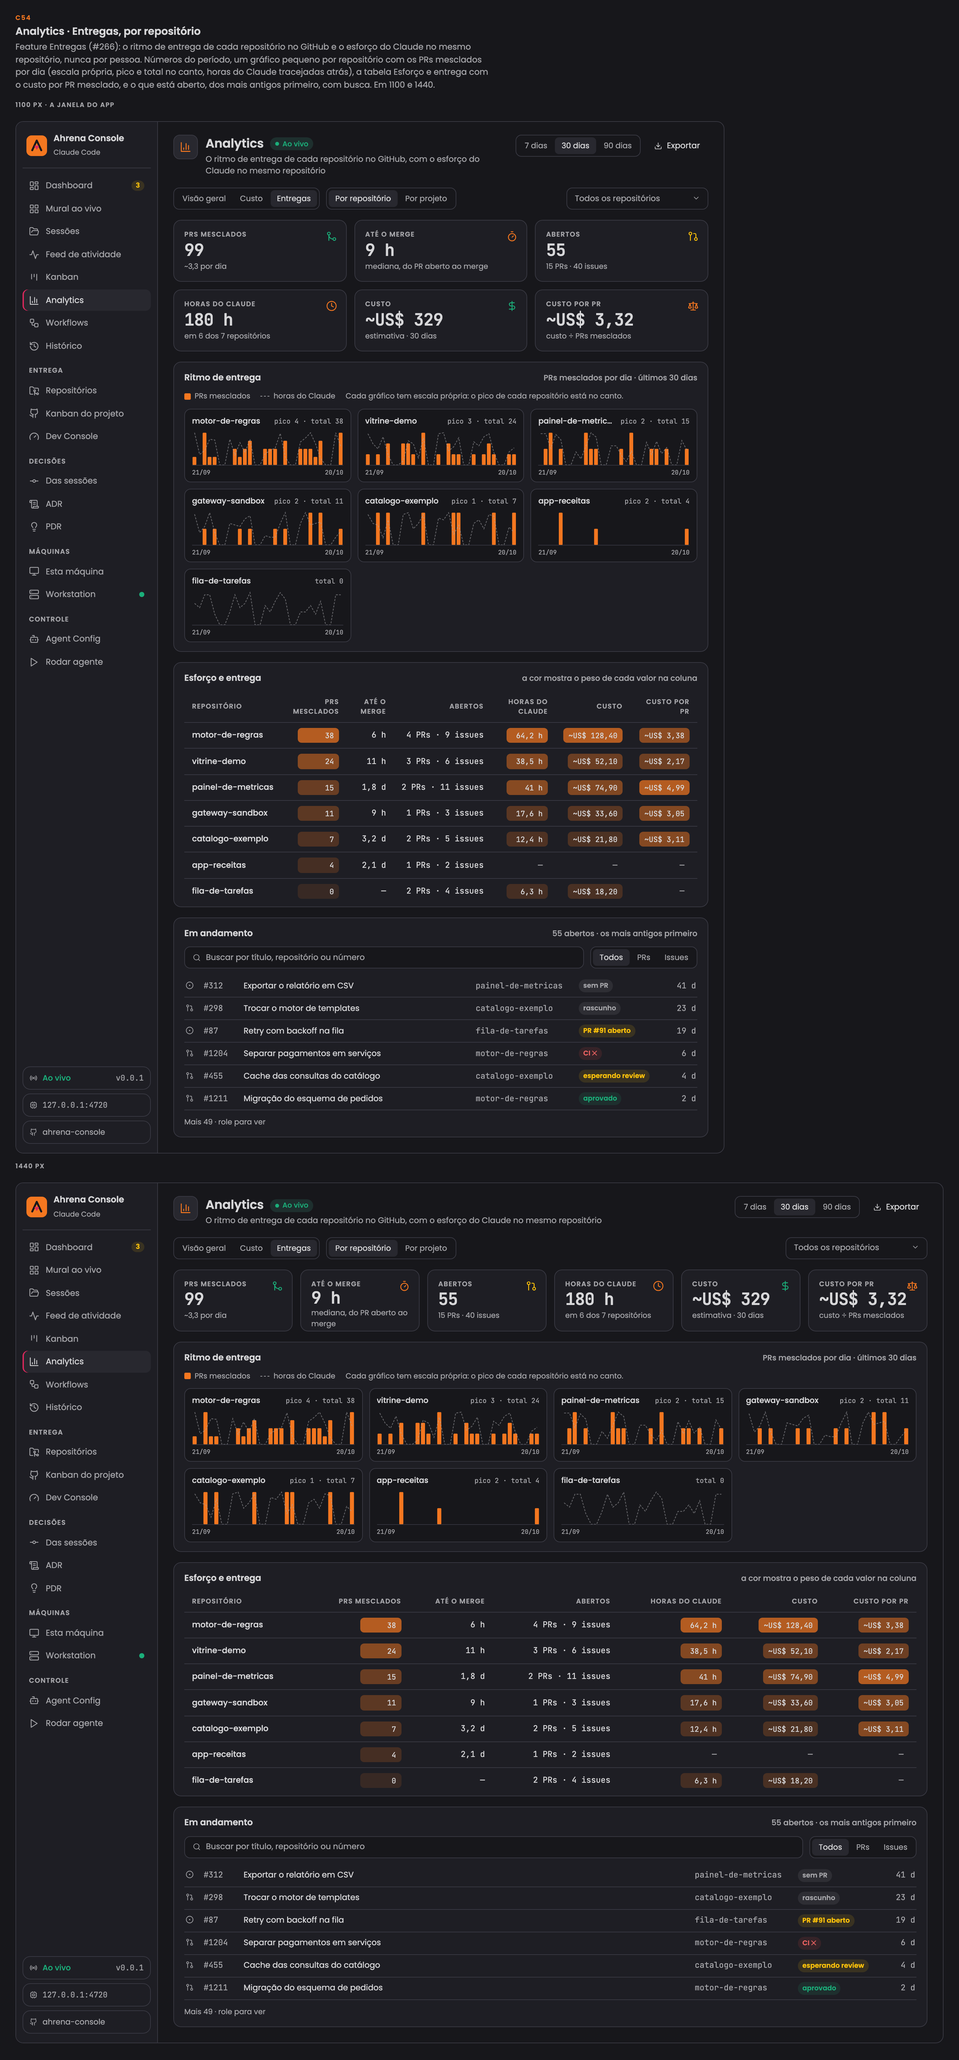
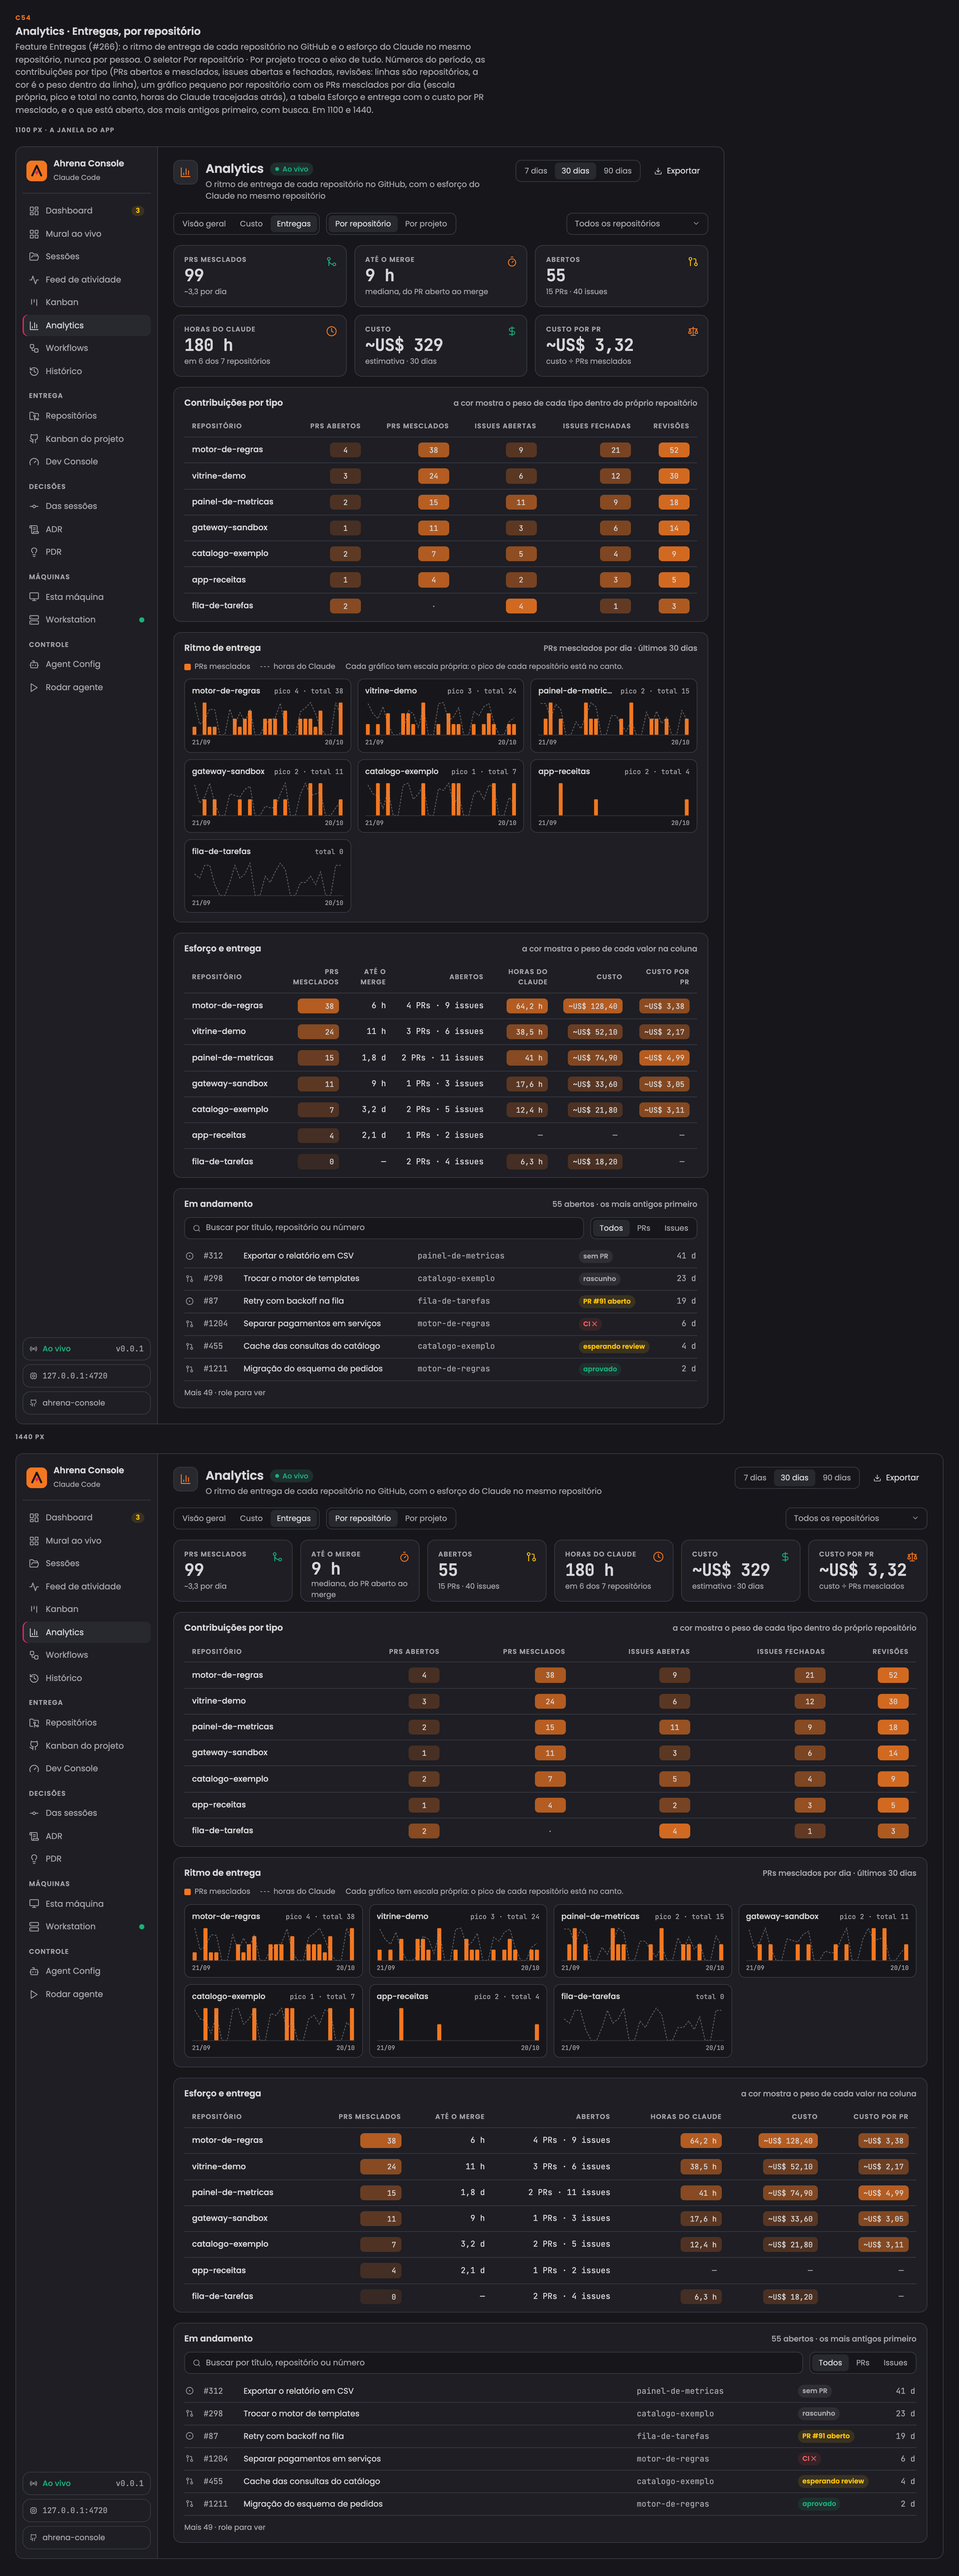
docs(wireframes): contributions heatmap and one axis switch for C54 and C55 (#266)
Rows are repositories or projects, never people; the Por repositório /
Por projeto selector switches the axis of the whole tab.

diff --git a/docs/wireframes/index.html b/docs/wireframes/index.html
@@ -512,9 +512,10 @@ main { min-width: 0; padding-block: 24px 80px; padding-left: max(16px, env(safe-
 .dl-none { color: var(--muted); font-family: var(--font-mono); padding-right: 20px !important; }
 .dl-open-bar { display: flex; gap: 10px; align-items: center; }
 .dl-open { display: flex; flex-direction: column; }
-.dl-open-row { display: grid; grid-template-columns: 18px 52px minmax(0, 1fr) 150px 128px 44px; gap: 10px; align-items: center; padding: 7px 2px; border-bottom: 1px solid var(--border); font-size: 12.5px; }
+.dl-open-row { display: grid; grid-template-columns: 18px 52px minmax(0, 1fr) minmax(0, 240px) 128px 44px; gap: 10px; align-items: center; padding: 7px 2px; border-bottom: 1px solid var(--border); font-size: 12.5px; }
 .dl-open-row .pill { justify-self: start; }
 .dl-age { text-align: right; color: var(--muted); }
+.dl-hm span { min-width: 48px; text-align: center; } .dl-zero { color: var(--muted); }
 .dl-faded > .cartao:nth-child(-n+2) { opacity: .55; }
 /* ---------- modo captura ---------- */
 body.captura .topo, body.captura .indice, body.captura .notas, body.captura .capitulo, body.captura .tela:not(.alvo), body.captura .perguntas, body.captura #perguntas { display: none !important; }
@@ -1129,10 +1130,23 @@ const DL_OPEN = [
   ['pr', 455, 'Cache das consultas do catálogo', 'catalogo-exemplo', 'esperando review', 'b-waiting', '4 d'],
   ['pr', 1211, 'Migração do esquema de pedidos', 'motor-de-regras', 'aprovado', 'b-completed', '2 d'],
 ]
-function dlOpen(w) {
+// Closed issues and reviews per repository, for the contribution heatmap (rows = repositories or projects, never people).
+const DL_EXTRA = { 'motor-de-regras': [21, 52], 'vitrine-demo': [12, 30], 'painel-de-metricas': [9, 18], 'gateway-sandbox': [6, 14], 'catalogo-exemplo': [4, 9], 'app-receitas': [3, 5], 'fila-de-tarefas': [1, 3] }
+const dlProjectOf = repo => DL_PROJECTS.find(p => p[1].includes(repo))[0]
+function dlContrib(byProject) {
+  const repo = n => DL_REPOS.find(r => r[0] === n)
+  const rows = byProject
+    ? DL_PROJECTS.map(([n, repos]) => [n, ...[r => r[5], r => r[3], r => r[6], r => DL_EXTRA[r[0]][0], r => DL_EXTRA[r[0]][1]].map(f => repos.reduce((a, x) => a + f(repo(x)), 0))])
+    : DL_REPOS.map(r => [r[0], r[5], r[3], r[6], DL_EXTRA[r[0]][0], DL_EXTRA[r[0]][1]])
+  const cell = (v, max) => `<td class="dl-heat dl-hm">${v ? `<span style="background:color-mix(in srgb, var(--accent) ${Math.round(14 + v / max * 70)}%, var(--surface))">${v}</span>` : '<span class="dl-zero">·</span>'}</td>`
+  return `<div class="cartao dl-card" style="padding-bottom:4px"><div class="ttl">Contribuições por tipo<span class="r">a cor mostra o peso de cada tipo dentro do próprio ${byProject ? 'projeto' : 'repositório'}</span></div>
+    <table class="tabela dl-table"><thead><tr><th>${byProject ? 'Projeto' : 'Repositório'}</th><th class="n">PRs abertos</th><th class="n">PRs mesclados</th><th class="n">Issues abertas</th><th class="n">Issues fechadas</th><th class="n">Revisões</th></tr></thead><tbody>
+    ${rows.map(([n, ...v]) => { const max = Math.max(...v, 1); return `<tr><td class="nm"><b>${n}</b></td>${v.map(x => cell(x, max)).join('')}</tr>` }).join('')}</tbody></table></div>`
+}
+function dlOpen(w, byProject) {
   return `<div class="cartao dl-card"><div class="ttl">Em andamento<span class="r">55 abertos · os mais antigos primeiro</span></div>
     <div class="dl-open-bar"><span class="campo" style="flex:1">${ic('search')}Buscar por título, repositório ou número</span><div class="seg"><span class="on">Todos</span><span>PRs</span><span>Issues</span></div></div>
-    <div class="dl-open">${DL_OPEN.map(([k, n, t, repo, st, cls, age]) => `<div class="dl-open-row"><span class="c-muted">${ic(k === 'pr' ? 'git-pull-request' : 'circle-dot')}</span><span class="mono c-muted">#${n}</span><span class="trunc">${t}</span><span class="mono c-muted trunc">${repo}</span><span class="pill ${cls}">${st}</span><span class="mono dl-age">${age}</span></div>`).join('')}</div>
+    <div class="dl-open">${DL_OPEN.map(([k, n, t, repo, st, cls, age]) => `<div class="dl-open-row"><span class="c-muted">${ic(k === 'pr' ? 'git-pull-request' : 'circle-dot')}</span><span class="mono c-muted">#${n}</span><span class="trunc">${t}</span><span class="mono c-muted trunc">${byProject ? `${dlProjectOf(repo)} · ${repo}` : repo}</span><span class="pill ${cls}">${st}</span><span class="mono dl-age">${age}</span></div>`).join('')}</div>
     <div class="leg"><span>Mais 49 · role para ver</span></div></div>`
 }
 function telaEntregas(w, byProject = false) {
@@ -1150,12 +1164,13 @@ function telaEntregas(w, byProject = false) {
     ${stat('Custo', '~US$ 329', 'estimativa · 30 dias', 'dollar-sign', 'var(--status-completed-text)')}
     ${stat('Custo por PR', '~US$ 3,32', 'custo ÷ PRs mesclados', 'scale', 'var(--accent-text)')}
   </div>
+  ${dlContrib(byProject)}
   <div class="cartao dl-card"><div class="ttl">Ritmo de entrega<span class="r">PRs mesclados por dia · últimos 30 dias</span></div>
     <div class="leg"><span><i class="dl-key-bar"></i>PRs mesclados</span><span><i class="dl-key-line"></i>horas do Claude</span><span>Cada gráfico tem escala própria: o pico de cada ${byProject ? 'projeto' : 'repositório'} está no canto.</span></div>
     <div class="dl-grid" style="grid-template-columns:repeat(${cols},minmax(0,1fr))">${smalls.join('')}</div></div>
   <div class="cartao dl-card" style="padding-bottom:4px"><div class="ttl">Esforço e entrega<span class="r">${byProject ? 'o esforço do projeto é a soma dos repositórios dele' : 'a cor mostra o peso de cada valor na coluna'}</span></div>
     ${dlTable(byProject ? DL_PROJECTS : DL_REPOS, byProject)}</div>
-  ${dlOpen(w)}`
+  ${dlOpen(w, byProject)}`
 }
 function telaEntregasEstados() {
   return `${cab('bar-chart-3', 'Analytics', 'O ritmo de entrega de cada repositório no GitHub, com o esforço do Claude no mesmo repositório', `<div class="seg"><span>7 dias</span><span class="on">30 dias</span><span>90 dias</span></div>`)}
@@ -2590,9 +2605,9 @@ const TELAS = [
     n: N(['Analytics: 5 StatCards, Event Activity de 52 semanas, Last 30 Days, abas Cost / Token / Productivity, barras horizontais.'], ['O heatmap usa o laranja em 4 tons, sem o índigo do CCAM.', 'Custo virou a aba "Custo" desta tela (3.7); o resto entra a pedido do dono.']) },
   { id: 'console-custo', cod: 'C13', nome: 'Analytics · Custo', sub: 'Custo por dia, por modelo e por projeto (3.7).', html: () => `<div class="fila">${cc('analytics', telaCusto())}</div>`,
     n: N(['Analytics · Cost Analytics: linha diária com pico e total, donut por modelo, barras horizontais.'], ['Gráficos no laranja e nos seus tons, sem uma cor por série.', 'Custo sempre com "~" e "estimativa".']) },
-  { id: 'console-delivery', cod: 'C54', nome: 'Analytics · Entregas, por repositório', sub: 'Feature Entregas (#266): o ritmo de entrega de cada repositório no GitHub e o esforço do Claude no mesmo repositório, nunca por pessoa. Números do período, um gráfico pequeno por repositório com os PRs mesclados por dia (escala própria, pico e total no canto, horas do Claude tracejadas atrás), a tabela Esforço e entrega com o custo por PR mesclado, e o que está aberto, dos mais antigos primeiro, com busca. Em 1100 e 1440.', html: () => `<div style="display:flex;flex-direction:column;gap:12px"><div class="rotulo">1100 px · a janela do app</div>${frameAt(1100, 'analytics', telaEntregas(1100))}<div class="rotulo">1440 px</div>${frameAt(1440, 'analytics', telaEntregas(1440))}</div>`,
-    n: N(['Nada do CCAM: ele não lê o GitHub. As formas vêm de um painel de entregas que já usamos: os gráficos pequenos com pico e total, a tabela com a cor pelo peso e a lista dos abertos com busca.'], ['A unidade é o repositório ou o projeto: sem autor, responsável ou divisão por pessoa.', 'O repositório de uma sessão vem do cwd, como na tela Repositórios; sem sessão no período, horas e custo são "—", nunca zero.', 'Custo por PR é custo ÷ PRs mesclados: uma ponte entre os dois lados, não uma meta.']) },
-  { id: 'console-delivery-projects', cod: 'C55', nome: 'Analytics · Entregas, por projeto', sub: 'A mesma aba agrupada pelos GitHub Projects que o console já lê (Kanban do projeto, C11). Cada gráfico diz os repositórios do projeto; o esforço do Claude de um projeto é a soma das sessões desses repositórios. Em 1100.', html: () => `<div class="fila">${frameAt(1100, 'analytics', telaEntregas(1100, true))}</div>`,
+  { id: 'console-delivery', cod: 'C54', nome: 'Analytics · Entregas, por repositório', sub: 'Feature Entregas (#266): o ritmo de entrega de cada repositório no GitHub e o esforço do Claude no mesmo repositório, nunca por pessoa. O seletor Por repositório · Por projeto troca o eixo de tudo. Números do período, as contribuições por tipo (PRs abertos e mesclados, issues abertas e fechadas, revisões: linhas são repositórios, a cor é o peso dentro da linha), um gráfico pequeno por repositório com os PRs mesclados por dia (escala própria, pico e total no canto, horas do Claude tracejadas atrás), a tabela Esforço e entrega com o custo por PR mesclado, e o que está aberto, dos mais antigos primeiro, com busca. Em 1100 e 1440.', html: () => `<div style="display:flex;flex-direction:column;gap:12px"><div class="rotulo">1100 px · a janela do app</div>${frameAt(1100, 'analytics', telaEntregas(1100))}<div class="rotulo">1440 px</div>${frameAt(1440, 'analytics', telaEntregas(1440))}</div>`,
+    n: N(['Nada do CCAM: ele não lê o GitHub. As formas vêm de um painel de entregas que já usamos: os gráficos pequenos com pico e total, a tabela com a cor pelo peso e a lista dos abertos com busca.'], ['As linhas são repositórios ou projetos, nunca pessoas: no painel de referência as linhas são pessoas; aqui não há autor, responsável nem eixo por pessoa.', 'O repositório de uma sessão vem do cwd, como na tela Repositórios; sem sessão no período, horas e custo são "—", nunca zero.', 'Custo por PR é custo ÷ PRs mesclados: uma ponte entre os dois lados, não uma meta.']) },
+  { id: 'console-delivery-projects', cod: 'C55', nome: 'Analytics · Entregas, por projeto', sub: 'Por projeto: o mesmo seletor troca o eixo de toda a aba para os GitHub Projects que o console já lê (Kanban do projeto, C11), e um projeto junta issues e PRs de vários repositórios. As contribuições, o ritmo, o esforço e o custo do Claude e o Em andamento passam a ter uma linha por projeto. Cada gráfico diz os repositórios do projeto; o esforço do Claude de um projeto é a soma das sessões desses repositórios. Em 1100.', html: () => `<div class="fila">${frameAt(1100, 'analytics', telaEntregas(1100, true))}</div>`,
     n: N(['—'], ['Um repositório em dois projetos conta nos dois; a soma dos projetos pode passar do total da aba.', 'Os itens de um projeto que não são de repositório (rascunhos do Project) não entram.']) },
   { id: 'console-delivery-states', cod: 'C56', nome: 'Analytics · Entregas, estados', sub: 'Sem GitHub conectado: o estado vazio explica como conectar, sem escolher repositório por você (regra 5). GitHub fora ou limitando: o cache com a hora, e as horas e o custo do Claude em dia, que vêm das sessões. Em 1100.', html: () => `<div class="fila">${frameAt(1100, 'analytics', telaEntregasEstados())}</div>`,
     n: N(['Os estados do C19.'], ['Só o lado do GitHub desbota: o lado do Claude é local e continua ao vivo.']) },
